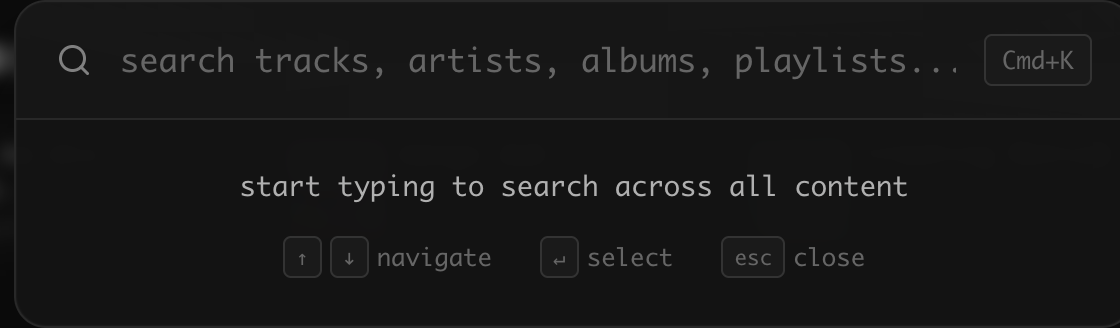
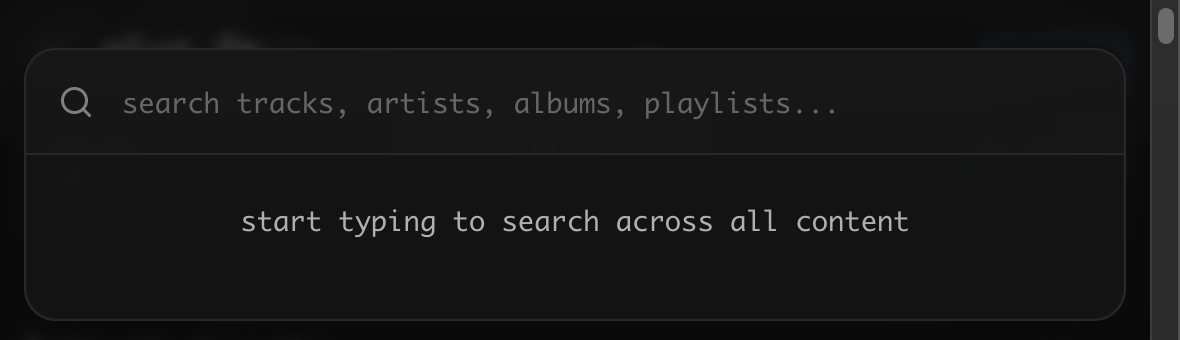
docs: improve screenshot framing, add auth'd screenshots for listeners/creators (#1094)
Retook all screenshots with proper framing (hide sticky header, viewport+crop).
Added actions menu, upload form, and portal dashboard screenshots.
Moved search overlay to step 2 in listeners guide. Updated screenshot skill
with lessons on self-reviewing images, hiding overlays, and cropping.

diff --git a/.claude/commands/screenshot-docs.md b/.claude/commands/screenshot-docs.md
@@ -29,13 +29,14 @@ default to production unless told otherwise.
 
 use the chrome-devtools MCP tools:
 
-1. **set viewport**: `resize_page(1280, 800)` for consistent dimensions
+1. **set viewport**: `resize_page(width, height)` — size depends on the subject (see framing guide below)
 2. **navigate**: `new_page(url)` or `navigate_page(url)`
 3. **wait**: `wait_for([text])` until content loads
 4. **snapshot**: `take_snapshot()` to get accessibility tree with element UIDs
 5. **interact** (if needed): `click(uid)` / `fill(uid, value)` to reach the target state
 6. **capture**: `take_screenshot(filePath, uid, fullPage, format, quality)` — use `format: "png"`
 7. **save to**: `docs-site/public/screenshots/{name}.png`
+8. **review**: `open -a Preview <path>` and ask the user if framing looks right before committing
 
 ### auth handling
 
@@ -75,18 +76,88 @@ the `docs-site/public/` directory is served at the root, so `/screenshots/` reso
 user: /screenshot-docs login page
 
 agent:
-1. resize_page(1280, 800)
+1. resize_page(500, 580)  ← viewport sized to fit the login modal
 2. new_page("https://plyr.fm")
 3. wait_for(["log in"])
-4. take_snapshot() → find the login button UID
-5. take_screenshot({ filePath: "docs-site/public/screenshots/login-page.png" })
-6. report: saved login-page.png
+4. click(login_button_uid)
+5. wait_for(["handle"])
+6. take_screenshot({ filePath: "docs-site/public/screenshots/login-page.png" })
+7. Read the image file to self-review framing
+8. open -a Preview <path> and ask user to confirm
 ```
+
+## framing guide
+
+the goal is to bring the subject into full focus while showing the entire element — no clipping, no sea of empty space.
+
+### strategy: resize the viewport to fit the subject
+
+do NOT use a fixed viewport for everything. instead, resize the viewport so the subject fills the frame naturally:
+
+| subject type | approach | example viewport |
+|---|---|---|
+| modal/dialog (login, search) | shrink viewport so modal fills frame | `500x580` for login form |
+| feed/browse view | mid-width to show content density | `900x700` for top tracks + latest |
+| single element (track card) | hide overlays, scroll into view, viewport capture + crop | `500x200` then crop to element |
+| full page context (nav + content) | standard width | `1280x800` |
+
+### rules
+
+1. **the subject must fill the frame** — if there's more background than subject, the viewport is too large
+2. **never clip the subject** — the entire element must be visible. if a track card has tags, the tags must be fully visible
+3. **hide sticky overlays** — use `evaluate_script` to `display:none` the sticky header, floating queue button, or any other overlay before capturing. these block the subject
+4. **viewport + crop for isolated elements** — `take_screenshot(uid=...)` often gets wrong bounds. instead: hide overlays, scroll element to top with `scrollIntoView`, take viewport screenshot, then crop with `uv run --with Pillow` (see cropping below)
+5. **viewport captures for context** — use viewport screenshots when showing how elements relate to each other (nav + feed, search over content)
+6. **never use `fullPage: true`** unless explicitly asked — it captures the entire scrollable page which can be thousands of pixels tall
+7. **always self-review** — use the `Read` tool to view the image yourself before showing the user. check: is the subject visible? is anything clipped? is there too much empty space?
+8. **then open in Preview** — run `open -a Preview <path>` and ask the user to confirm. framing is subjective and worth the round-trip
+9. **retina is fine** — macOS captures at 2x device pixels. a 500px viewport produces a 1000px image. this is good for sharpness, don't fight it
+
+### what "too zoomed in" looks like
+
+- element is clipped (tags cut off, buttons missing)
+- no padding around the subject
+
+### what "too zoomed out" looks like
+
+- subject is a small island in a dark void
+- lots of empty background around a centered modal
+- the 1280x800 viewport showing a 400px-wide login form
+
+### cropping
+
+when a viewport screenshot has excess space (e.g. browser minimum height > element height), crop with ephemeral Pillow:
+
+```bash
+uv run --with Pillow python3 -c "
+from PIL import Image
+img = Image.open('docs-site/public/screenshots/name.png')
+cropped = img.crop((0, 0, img.width, TARGET_HEIGHT))  # top-anchored crop
+cropped.save('docs-site/public/screenshots/name.png')
+"
+```
+
+remember: retina means CSS pixels × 2. a 138px CSS element = ~276px in the image. add ~20px padding.
+
+never use `pip` or touch the project venv — `uv run --with` installs ephemerally.
+
+### hiding overlays
+
+plyr.fm has a sticky header and a floating queue button. hide them before capturing individual elements:
+
+```js
+// in evaluate_script
+document.querySelector('header').style.display = 'none';
+// find and hide queue button too
+```
+
+after hiding, re-scroll the target element into view since layout shifts.
 
 ## tips
 
 - use `take_snapshot()` before any interaction to get current element UIDs
-- for element-level screenshots, pass the `uid` parameter to `take_screenshot`
-- for full-page captures, use `fullPage: true`
+- use `evaluate_script` to find elements by class (`.track-container`, `.track-info`) and get bounding rects
 - if the page has animations or loading states, use `wait_for` with expected text content
 - take multiple screenshots if a flow has several steps (e.g. `login-step1.png`, `login-step2.png`)
+- **always Read the screenshot file** to visually check it before showing the user — you can see images
+- `take_screenshot(uid=...)` often captures wrong bounds for styled containers — prefer viewport + crop

diff --git a/docs/listeners.md b/docs/listeners.md
@@ -17,12 +17,16 @@ plyr.fm is an audio streaming platform built on [atproto](https://atproto.com), 
 
    ![the feed shows top tracks and latest uploads](/screenshots/landing-page.png)
 
+   ![Cmd+K search overlay](/screenshots/search-overlay.png)
+
 3. **play it** — click any track to start streaming
 
    ![a track card showing title, artist, tags, and play count](/screenshots/feed-track-card.png)
 
-4. **like it** — hit the heart. your like is stored as an atproto record you own
-5. **build a playlist** — click "add to playlist" on any track, name your collection
+4. **like it** — click the three-dot menu on any track and hit "add to liked". your like is stored as an atproto record you own
+5. **build a playlist** — click "add to playlist" from the same menu, name your collection
+
+   ![track actions menu — like, add to playlist, queue, share](/screenshots/track-actions-menu.png)
 
 that's it. your likes, playlists, and listening data are yours — stored in [your personal data repo](https://at-me.zzstoatzz.io/view/?handle=zzstoatzz.io), portable to any atproto app.
 
@@ -43,8 +47,6 @@ that's it. your likes, playlists, and listening data are yours — stored in [yo
 | `q` | toggle queue |
 | `cmd+k` | search |
 | `m` | mute / unmute |
-
-![Cmd+K search overlay](/screenshots/search-overlay.png)
 
 ## leaving
 

diff --git a/docs/artists.md b/docs/artists.md
@@ -15,6 +15,9 @@ plyr.fm gives creators a place to share audio where **you own your data**. every
 
 2. **upload** — click the upload button and drop your audio file (MP3, WAV, or M4A)
 3. **add metadata** — title, tags, and optional cover art. plyr.fm auto-suggests genre tags from the audio
+
+   ![the upload form — title, description, album, tags, and audio file](/screenshots/upload-form.png)
+
 4. **see it live** — your track is now an atproto record in your PDS, indexed by plyr.fm and playable immediately
 5. **embed it** — copy the embed code to put a player on your website or blog (see [embeds](#embeds) below)
 
@@ -85,6 +88,8 @@ the atproto team is [exploring permissioned data](https://dholms.leaflet.pub/3mf
 we'd also like to support more expressive gating — tiers, time-limited early access, per-track pricing — as the ecosystem matures.
 
 ## your data
+
+![the artist portal — manage your profile, tracks, and albums](/screenshots/portal-dashboard.png)
 
 because tracks are atproto records, you can:
 
